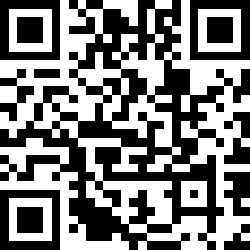
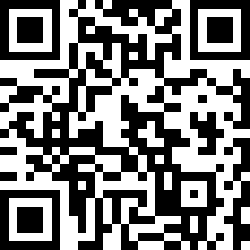
fix: 🐛 Slides link for JBang talk

diff --git a/jbang/devoxx-fr-2025/index.html b/jbang/devoxx-fr-2025/index.html
@@ -21,7 +21,7 @@ Hello World!
       -Dexec.mainClass=&quot;fr.wilda.App&quot;
 
 Hello World!
-</code></pre></li></ul></section><section class=sd-slide data-num=7 data-slug=-pour-10-lignes-de-code-><h2>🤯 Pour 10 lignes de code !!!</h2></section><section class="sd-slide slide-text steps" data-num=8 data-slug=-alternatives><h2>🔄 Alternatives</h2><ul><li>🐍 Python</li><li>📿 Perl</li><li>🕸 JavaScript</li><li>…</li></ul></section><section class="sd-slide lego" data-num=9 data-slug=et-en-java-><h2>Et en Java ?</h2><div class="full-image-author love-image-author"><a href=https://pixabay.com/fr/users/kirill_makes_pics-5203613/ >kirill_makes_pics</a></div></section><section class="sd-slide slide-text steps" data-num=10 data-slug=-jbang><h2>❗#⃣ JBang</h2><ul><li>❗ La plus complète (?) des alternatives en Java</li><li>🧑💻 Permet de faire des scripts …</li><li>… et des CLI 🤔</li><li>👤 <a href=https://github.com/maxandersen>Max Rydahl Andersen</a> 🎉</li></ul><aside class=sd-notes><br><br>- A voir avec les unamed class pour encore plus alléger les scripts (https://openjdk.org/jeps/445)<br>- Launch Single-File Source-Code Programs JEP330 et JEP458 (https://openjdk.org/jeps/330 & https://openjdk.org/jeps/458)<br>- ///usr/lib/jvm/msopenjdk-current/bin/java "$0" "$@" ; exit $?<br><br></aside></section><section class="sd-slide demos" data-num=11 data-slug=dmos><h2>Démos</h2><div class="full-image-author demo-image-author"><a href=https://www.illumination.com/ >Illumination Entertainment</a></div><aside class=sd-notes><br>5"<br></aside></section><section class="sd-slide slide-text steps" data-num=12 data-slug=-pour-aller-plus-loin><h2>✨ Pour aller plus loin</h2><div class=img-right><div class="img-right-author jbang-advanced"><a href=https://unsplash.com/fr/@sushioutlaw>Brian McGowan</a></div><img src=assets/images/buzz.jpg alt="buzz l'éclair"></div><ul><li>⚡ Natif avec GraalVM</li><li>💻 CLI avec Picocli</li><li>📝 Multiples fichiers Java</li><li>🧩 Templates</li><li>…</li></ul></section><section class="sd-slide slide-text steps" data-num=13 data-slug=-ai-endpoints><h2>🤖 AI Endpoints</h2><figure class=sd-img style=float:right><img src=assets/images/ai-endpoints.webp loading=lazy alt=ovhcloud-api><figcaption style=display:none>ovhcloud-api</figcaption></figure><ul><li>🧠 IA as a service</li><li>🧱 Llama, Mistral, DeepSeek-R1-Distill, Llava-Next-Mistral, Nvidia RIVA ASR, …</li><li>👩💻 Orientés développeuses / développeurs</li><li>☁ Cloud de confiance, vos données vous appartiennent</li><li>🔓 Respect les API standard, <strong>unlock technologies</strong></li><li>🔗 <a href=https://endpoints.ai.cloud.ovh.net/ >https://endpoints.ai.cloud.ovh.net/</a></li></ul></section><section class="sd-slide ovhcloud-world" data-num=14 data-slug=ovhcloud><h2>Ovhcloud</h2></section><section class="sd-slide slide-text" data-num=15 data-slug=-liens><h2>🔗 Liens</h2><p><a href=https://www.jbang.dev/ >https://www.jbang.dev/</a><br><a href=https://slidesk.github.io/slidesk-doc/ >https://slidesk.github.io/slidesk-doc/</a><br><a href=https://endpoints.ai.cloud.ovh.net>https://endpoints.ai.cloud.ovh.net</a></p></section><section class=sd-slide data-num=16 data-slug=!slide-16><h2></h2><h2>Merci !!!</h2><table style=margin-top:5%;font-size:1.5vw;text-align:center;width:100%><tr><td align=center width=33%><img src=assets/images/qrcode-slides.png width=50%></td><td align=center width=33%><img src=assets/images/qrcode-feedbacks.png width=50%></td><td align=center width=33%><img src=assets/images/qrcode-sources.png width=50%></td></tr><tr><td>Slides<br><a href=https://ovh.to/tFHhAbX>https://ovh.to/tFHhAbX</a></td><td>Feedbacks<br><a href=https://ovh.to/tFHhmMp>https://ovh.to/tFHhmMpK</a></td><td>Sources<br><a href=https://ovh.to/RLz2Wsc>https://ovh.to/RLz2Wsc</a></td></tr></table><img style=display:block;margin-top:5%;margin-left:auto;margin-right:auto;width:10% src=assets/images/minions.png></section><script src=slidesk.js></script><script src=./plugins/animate/animate.js></script><script src=./plugins/highlightjs/highlight.min.js></script><script src=./plugins/highlightjs/plugin.js></script><script src=./plugins/steps/steps.js></script><div class="footer">
+</code></pre></li></ul></section><section class=sd-slide data-num=7 data-slug=-pour-10-lignes-de-code-><h2>🤯 Pour 10 lignes de code !!!</h2></section><section class="sd-slide slide-text steps" data-num=8 data-slug=-alternatives><h2>🔄 Alternatives</h2><ul><li>🐍 Python</li><li>📿 Perl</li><li>🕸 JavaScript</li><li>…</li></ul></section><section class="sd-slide lego" data-num=9 data-slug=et-en-java-><h2>Et en Java ?</h2><div class="full-image-author love-image-author"><a href=https://pixabay.com/fr/users/kirill_makes_pics-5203613/ >kirill_makes_pics</a></div></section><section class="sd-slide slide-text steps" data-num=10 data-slug=-jbang><h2>❗#⃣ JBang</h2><ul><li>❗ La plus complète (?) des alternatives en Java</li><li>🧑💻 Permet de faire des scripts …</li><li>… et des CLI 🤔</li><li>👤 <a href=https://github.com/maxandersen>Max Rydahl Andersen</a> 🎉</li></ul><aside class=sd-notes><br><br>- A voir avec les unamed class pour encore plus alléger les scripts (https://openjdk.org/jeps/445)<br>- Launch Single-File Source-Code Programs JEP330 et JEP458 (https://openjdk.org/jeps/330 & https://openjdk.org/jeps/458)<br>- ///usr/lib/jvm/msopenjdk-current/bin/java "$0" "$@" ; exit $?<br><br></aside></section><section class="sd-slide demos" data-num=11 data-slug=dmos><h2>Démos</h2><div class="full-image-author demo-image-author"><a href=https://www.illumination.com/ >Illumination Entertainment</a></div><aside class=sd-notes><br>5"<br></aside></section><section class="sd-slide slide-text steps" data-num=12 data-slug=-pour-aller-plus-loin><h2>✨ Pour aller plus loin</h2><div class=img-right><div class="img-right-author jbang-advanced"><a href=https://unsplash.com/fr/@sushioutlaw>Brian McGowan</a></div><img src=assets/images/buzz.jpg alt="buzz l'éclair"></div><ul><li>⚡ Natif avec GraalVM</li><li>💻 CLI avec Picocli</li><li>📝 Multiples fichiers Java</li><li>🧩 Templates</li><li>…</li></ul></section><section class="sd-slide slide-text steps" data-num=13 data-slug=-ai-endpoints><h2>🤖 AI Endpoints</h2><figure class=sd-img style=float:right><img src=assets/images/ai-endpoints.webp loading=lazy alt=ovhcloud-api><figcaption style=display:none>ovhcloud-api</figcaption></figure><ul><li>🧠 IA as a service</li><li>🧱 Llama, Mistral, DeepSeek-R1-Distill, Llava-Next-Mistral, Nvidia RIVA ASR, …</li><li>👩💻 Orientés développeuses / développeurs</li><li>☁ Cloud de confiance, vos données vous appartiennent</li><li>🔓 Respect les API standard, <strong>unlock technologies</strong></li><li>🔗 <a href=https://endpoints.ai.cloud.ovh.net/ >https://endpoints.ai.cloud.ovh.net/</a></li></ul></section><section class="sd-slide ovhcloud-world" data-num=14 data-slug=ovhcloud><h2>Ovhcloud</h2></section><section class="sd-slide slide-text" data-num=15 data-slug=-liens><h2>🔗 Liens</h2><p><a href=https://www.jbang.dev/ >https://www.jbang.dev/</a><br><a href=https://slidesk.github.io/slidesk-doc/ >https://slidesk.github.io/slidesk-doc/</a><br><a href=https://endpoints.ai.cloud.ovh.net>https://endpoints.ai.cloud.ovh.net</a></p></section><section class=sd-slide data-num=16 data-slug=!slide-16><h2></h2><h2>Merci !!!</h2><table style=margin-top:5%;font-size:1.5vw;text-align:center;width:100%><tr><td align=center width=33%><img src=assets/images/qrcode-slides.png width=50%></td><td align=center width=33%><img src=assets/images/qrcode-feedbacks.png width=50%></td><td align=center width=33%><img src=assets/images/qrcode-sources.png width=50%></td></tr><tr><td>Slides<br><a href=https://ovh.to/4tuA7B>https://ovh.to/4tuA7B</a></td><td>Feedbacks<br><a href=https://ovh.to/tFHhmMp>https://ovh.to/tFHhmMpK</a></td><td>Sources<br><a href=https://ovh.to/RLz2Wsc>https://ovh.to/RLz2Wsc</a></td></tr></table><img style=display:block;margin-top:5%;margin-left:auto;margin-right:auto;width:10% src=assets/images/minions.png></section><script src=slidesk.js></script><script src=./plugins/animate/animate.js></script><script src=./plugins/highlightjs/highlight.min.js></script><script src=./plugins/highlightjs/plugin.js></script><script src=./plugins/steps/steps.js></script><div class="footer">
   <div class="author-footer">@wildagsx</div>
   <div class="ovhcloud-footer">
     <img src="assets/images/OVHcloud_logo.png" alt="OVHcloud logo" style="width: 15%;" />
